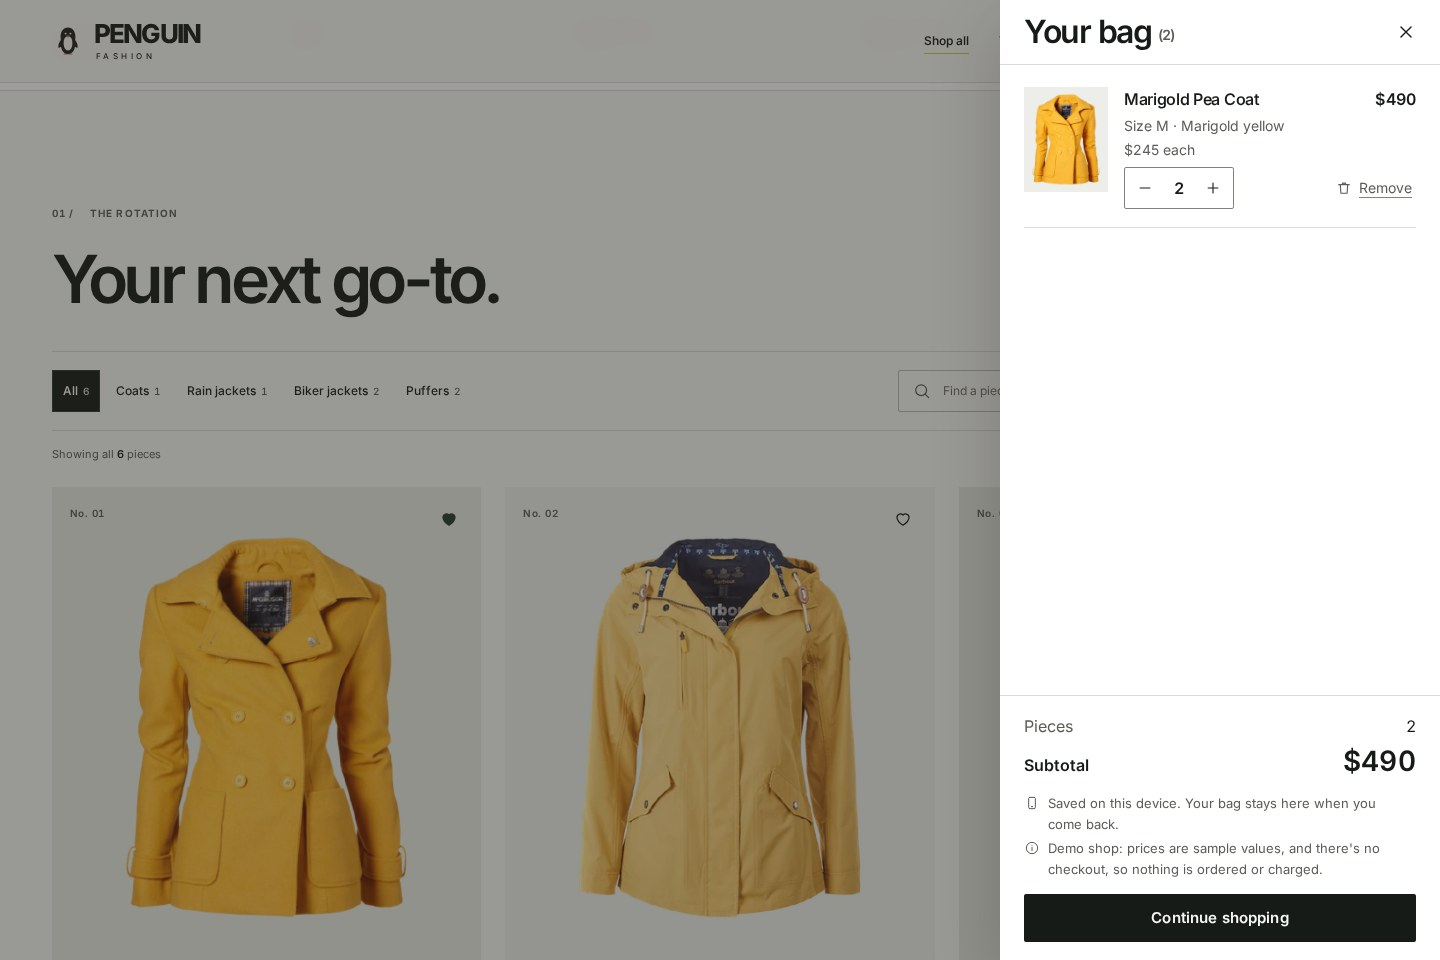
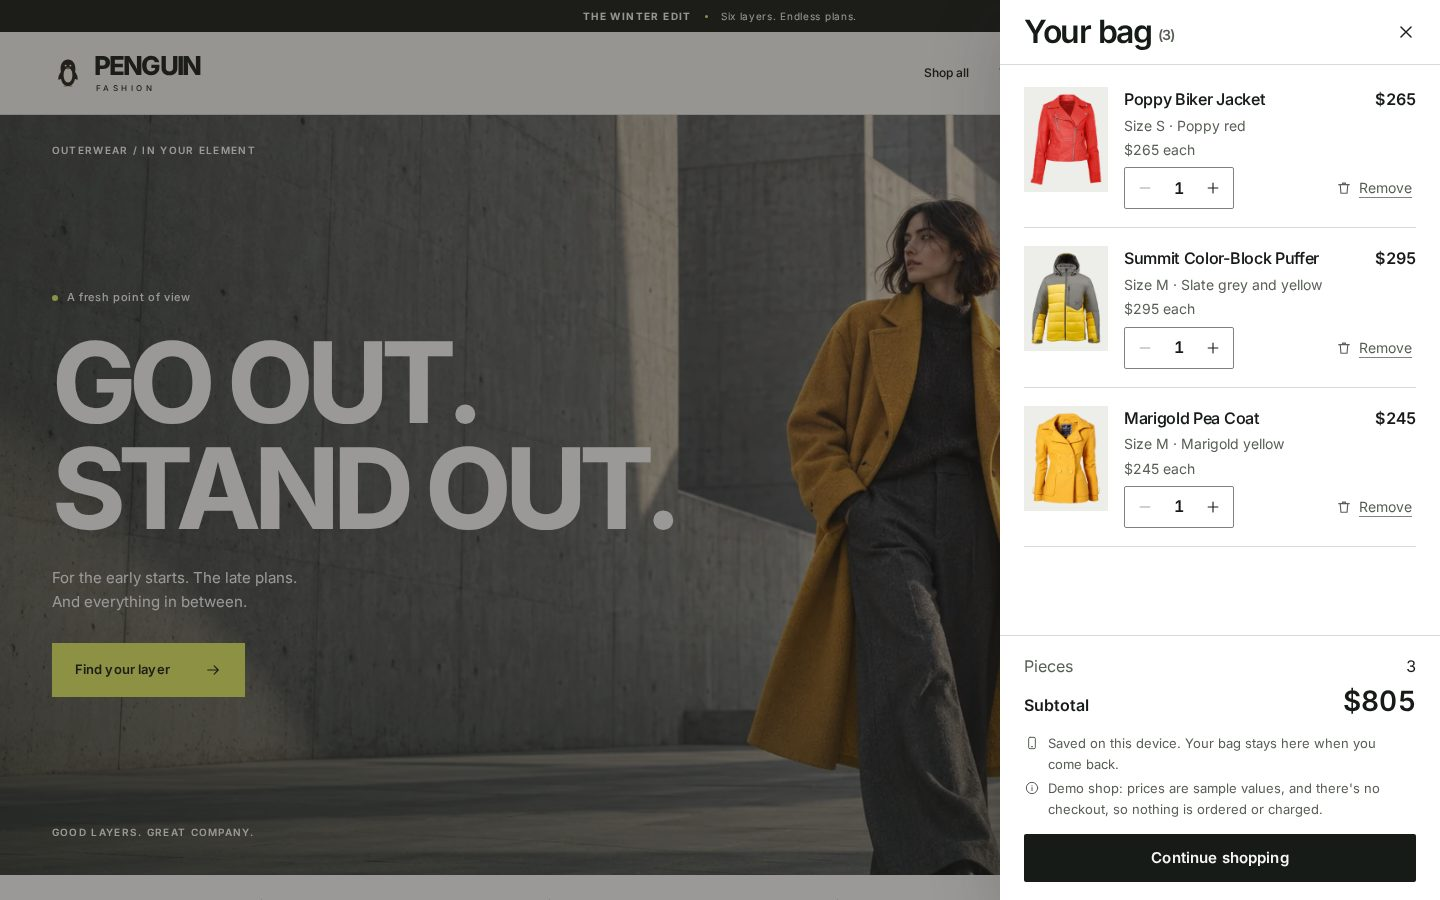
Polish the README with new screenshots of the redesign

diff --git a/README.md b/README.md
@@ -1,26 +1,136 @@
-# Penguin Fashion
+<p align="center">
+  <a href="https://shayan-abrar.github.io/Penguin-Fashion-Shop/">
+    <img src="screenshots/home.jpg" width="100%" alt="Penguin Fashion in a desktop window and on a phone: the headline GO OUT. STAND OUT. and a chartreuse Find your layer button over a city campaign image of two models in a saffron coat and a navy puffer">
+  </a>
+</p>
 
-A winterwear concept store with a bold editorial identity: oversized typography, cool neutrals, a chartreuse accent, and three original AI-generated fashion campaign images. It has six coats and jackets, search and filters, a product view with zoom and a size guide, a shoppable "Winter Edit", and a bag and wishlist that are saved in your browser. It's a demo: the products, sizes and prices are sample data, and there's no checkout.
-
-**Live site:** <https://shayan-abrar.github.io/Penguin-Fashion-Shop/>
+<h1 align="center">Penguin Fashion</h1>
 
 <p align="center">
-  <img src="screenshots/home.jpg" width="800" alt="Home page: GO OUT. STAND OUT. over an original city fashion campaign, with shop-by-style shortcuts underneath">
+  <b>Go out. Stand out.</b> A winter outerwear storefront with a bold editorial look:<br>
+  six coats and jackets, a shoppable lookbook, and a bag that's saved on your device.
 </p>
+
+<p align="center">
+  <a href="https://shayan-abrar.github.io/Penguin-Fashion-Shop/"><b>View the live site</b></a>
+  &nbsp;·&nbsp; <a href="#screenshots">Screenshots</a>
+  &nbsp;·&nbsp; <a href="#features">Features</a>
+  &nbsp;·&nbsp; <a href="#design">Design</a>
+  &nbsp;·&nbsp; <a href="#run-it-locally">Run it locally</a>
+</p>
+
+<p align="center">
+  <img alt="Hosted on GitHub Pages" src="https://img.shields.io/badge/hosted_on-GitHub_Pages-171B17?style=flat-square&logo=github&logoColor=white">
+  <img alt="HTML, CSS and JavaScript modules" src="https://img.shields.io/badge/stack-HTML_%C2%B7_CSS_%C2%B7_JS_modules-425537?style=flat-square">
+  <img alt="No build step" src="https://img.shields.io/badge/build_step-none-E5F164?style=flat-square&labelColor=171B17">
+  <img alt="No dependencies" src="https://img.shields.io/badge/dependencies-0-E5F164?style=flat-square&labelColor=171B17">
+</p>
+
+---
+
+Penguin Fashion is a demo storefront dressed as an outerwear campaign. It opens with a full-bleed city hero, then a clean shopping grid, a dark shoppable lookbook, a coastal brand story and an oversized footer wordmark. Behind the campaign styling is a complete browsing experience: search and filters, a product view with zoom and a size guide, and a bag and saved list that stay in your browser.
+
+It's plain HTML, CSS and JavaScript modules, with no framework, nothing to install and no build step.
+
+> [!NOTE]
+> This is a demo, not a shop. Products, sizes and prices are sample data, there's no checkout, and nothing is ever ordered or charged.
+
+## Screenshots
 
 <table>
   <tr>
-    <td align="center" width="20%"><a href="screenshots/collection.jpg"><img src="screenshots/collection.jpg" width="150" alt="The collection with a search box, style, fit and hooded filters, a sort menu and a grid of jackets"></a><br><sub><b>Collection</b></sub></td>
-    <td align="center" width="20%"><a href="screenshots/product.jpg"><img src="screenshots/product.jpg" width="150" alt="Product view of the Marigold Pea Coat with a large photo, size buttons, a size guide link and Add to bag"></a><br><sub><b>Product view</b></sub></td>
-    <td align="center" width="20%"><a href="screenshots/winter-edit.jpg"><img src="screenshots/winter-edit.jpg" width="150" alt="The Bold Color Edit: an original campaign photograph, a styling idea and links to three matching catalog pieces"></a><br><sub><b>The Winter Edit</b></sub></td>
-    <td align="center" width="20%"><a href="screenshots/bag.jpg"><img src="screenshots/bag.jpg" width="150" alt="The bag drawer with quantity controls, a subtotal and a note that it's saved on this device"></a><br><sub><b>Bag</b></sub></td>
-    <td align="center" width="20%"><a href="screenshots/mobile.jpg"><img src="screenshots/mobile.jpg" width="150" alt="The redesigned home page on a phone"></a><br><sub><b>Phone</b></sub></td>
+    <td width="50%" valign="top">
+      <a href="screenshots/collection.jpg"><img src="screenshots/collection.jpg" alt="The collection: the heading Your next go-to., style chips, a search box, a sort menu, a Filters button and product cards on stone panels"></a>
+      <br><sub><b>The collection</b> · style chips, search, filters and price sorting</sub>
+    </td>
+    <td width="50%" valign="top">
+      <a href="screenshots/product.jpg"><img src="screenshots/product.jpg" alt="Product view of the Poppy Biker Jacket with a large photo, size S selected, a size guide link and Add to bag"></a>
+      <br><sub><b>Product view</b> · zoom, sizes and the size guide</sub>
+    </td>
+  </tr>
+  <tr>
+    <td colspan="2" valign="top">
+      <a href="screenshots/winter-edit.jpg"><img src="screenshots/winter-edit.jpg" alt="The Winter Edit on a dark section: the heading A mood for every forecast., tabs for three looks, and The Bold Color Edit with a campaign image of a model in a red jacket beside links to three matching pieces"></a>
+      <br><sub><b>The Winter Edit</b> · three shoppable looks in a carousel you control</sub>
+    </td>
+  </tr>
+  <tr>
+    <td width="50%" valign="top">
+      <a href="screenshots/bag.jpg"><img src="screenshots/bag.jpg" alt="The bag drawer with three jackets, quantity controls, a subtotal of $805 and a note that the bag is saved on this device"></a>
+      <br><sub><b>Bag</b> · quantities, undo and a subtotal from the catalog</sub>
+    </td>
+    <td width="50%" valign="top">
+      <a href="screenshots/story.jpg"><img src="screenshots/story.jpg" alt="The brand story: Good company for cold days. beside a coastal campaign image of a model in a grey and yellow puffer"></a>
+      <br><sub><b>Our story</b> · a coastal editorial with three principles</sub>
+    </td>
   </tr>
 </table>
 
+<p align="center">
+  <a href="screenshots/mobile.jpg"><img src="screenshots/mobile.jpg" width="100%" alt="Four phone screens: the campaign hero, the collection with a scrolling row of style chips, the Poppy Biker Jacket with size S selected, and the bag as a sheet from the bottom of the screen"></a>
+  <br><sub>On phones, the menu, filters and bag open as sheets from the bottom of the screen, and <b>Add to bag</b> stays within reach.</sub>
+</p>
+
+## Features
+
+### Shop the collection
+
+- **Find your kind of layer:** shortcuts for coats, rain jackets, biker jackets and puffers, each with a live count.
+- **Search** by name, color or style, from the collection or from the header, where matches appear as you type.
+- **Filter** with style chips, and by fit (women's or men's) and hooded pieces in the Filters panel. **Sort** by lowest or highest price.
+- Active filters show as tags you can remove, with a result count, **Clear all** and a friendly no-results state.
+- The search, filters and sort are kept in the address, so a refresh keeps them and you can share a filtered view as a link.
+
+### Product view
+
+- Opens over the collection with a large photo you can zoom: click or tap it and move across it, or use the arrow keys.
+- Shows the price, color, a description and what's visible in the photo.
+- A size is required before **Add to bag**, with an inline message if it's missing. The size guide explains how to measure and lists sample measurements in centimeters or inches.
+- Related pieces open in the same view. The back button closes it with your filters and scroll position intact, and `?product=<id>` links open a piece directly.
+
+### The Winter Edit
+
+- A shoppable lookbook with three looks, **Everyday**, **Bold color** and **Weekend**, each pairing a campaign image with a styling idea and links to the pieces.
+- **Shop this edit** shows just those pieces in the collection.
+- The carousel only moves when you ask it to, with its buttons, tabs, arrow keys or a swipe.
+
+### Bag and saved pieces
+
+- Both are saved in your browser's `localStorage`, under `penguin-fashion:cart:v1` and `penguin-fashion:wishlist:v1`. Nothing is sent anywhere.
+- Adding the same piece in the same size combines into one line, and a different size gets its own line. Quantities go from 1 to 10, and removing something offers **Undo**.
+- Prices always come from the catalog, so totals stay correct.
+- Both survive a refresh or closing the browser, and other open tabs update to match.
+- Saved data is checked whenever it's read. Damaged or outdated entries are repaired, and the bag explains what changed. If the browser can't save at all, the bag still works for the visit and says it won't be kept.
+
+### Accessibility
+
+- A "Skip to content" link, clear headings and a visible focus ring.
+- The product view, size guide, bag, saved pieces, menu and filters are native dialogs. Focus moves into them and stays there, Escape closes them, the page behind doesn't scroll, and focus returns to what opened them.
+- Missing sizes, bag changes, filter results and carousel moves are announced to screen readers.
+- The lookbook never moves on its own, and slides that aren't showing can't be reached by keyboard or screen readers.
+- Animations switch off when your system asks for reduced motion.
+- Images have descriptive alt text and fixed dimensions, and images further down the page load lazily.
+
+## Design
+
+The art direction is a contemporary outerwear campaign: big, tight Inter headlines, cool off-white and stone surfaces, deep forest-charcoal sections and a single chartreuse accent for the moments that matter.
+
+<p align="center">
+  <img src="screenshots/design.png" width="100%" alt="Design tokens: the Inter typeface with the sample GO OUT. STAND OUT., and six colors: chartreuse E5F164, forest charcoal 171B17, off-white F7F8F4, stone EDEEEA, olive 425537 and graphite 575E55">
+</p>
+
+- **Typeface:** Inter, self-hosted as one variable font, for both the campaign headlines and the small interface text.
+- **Color:** the palette, type scale and spacing are tokens in `assets/css/tokens.css`.
+- **Photography:** product photos are always shown whole, at the same scale, on matching stone panels, so shapes are easy to compare. The three campaign images are mood photography. They're labelled on the site as AI-generated styling inspiration, and they never stand in for the products.
+- **Motion:** small hover details and a short entrance animation, all switched off for reduced motion.
+
+<p align="center">
+  <img src="screenshots/footer.jpg" width="100%" alt="The footer: an oversized chartreuse PENGUIN wordmark on forest charcoal, with Shop, Help and Project links and the demo notice">
+</p>
+
 ## Run it locally
 
-There's no build step and nothing to install. The scripts are ES modules, so the site needs a local web server; opening `index.html` straight from the file system won't run them.
+There's nothing to install. The scripts are JavaScript modules, so the site needs a local web server; opening `index.html` straight from the file system won't run them.
 
 ```bash
 git clone https://github.com/SHAYAN-ABRAR/Penguin-Fashion-Shop.git
@@ -30,69 +140,43 @@ python3 -m http.server 8000
 
 Open <http://localhost:8000>. On Windows, use `python` instead of `python3`.
 
-To preview it under the same `/Penguin-Fashion-Shop/` path that GitHub Pages uses, run the server from the folder that contains the project:
+To preview it under the same `/Penguin-Fashion-Shop/` path that GitHub Pages uses, run the server from the folder that contains the project instead, and open <http://localhost:8000/Penguin-Fashion-Shop/>:
 
 ```bash
 cd ..
 python3 -m http.server 8000
 ```
 
-Then open <http://localhost:8000/Penguin-Fashion-Shop/>. Python shows its own error page for missing paths; the custom `404.html` only appears on GitHub Pages.
-
-## What's on the site
-
-- **Header:** the Penguin Fashion mark, links to each section, search, saved pieces and the bag, with live counts. On phones the links move into a menu that opens from the bottom of the screen.
-- **Hero:** "GO OUT. STAND OUT." over an original city campaign image, with **Find your layer** and a link to the Winter Edit. Shop-by-style shortcuts sit just below it.
-- **Collection:** search by name, color or style; filter by style (coats, rain jackets, biker jackets, puffers), fit (women's or men's) and hooded; sort by price. Active filters show as tags you can remove, with a result count, **Clear all** and a designed no-results state. The current search, filters and sort are kept in the address, so they survive a refresh and the back button.
-- **Product view:** opens over the collection as a dialog, with a large photo you can zoom (select it, then move across it; arrow keys work too), the price, color, description and what's visible in the photo. A size is required before **Add to bag**, with an inline message if it's missing. The size guide has how-to-measure steps and sample measurements in centimeters or inches. Related pieces open in the same view. The back button closes it, leaving your filters and scroll position as they were, and `?product=<id>` links open a piece directly.
-- **The Winter Edit:** three looks built from the collection (Everyday, Bold color and Weekend), each with an original campaign photograph, a styling idea, links to its pieces and **Shop this edit**, which shows just those pieces in the collection. The carousel moves only when you use its buttons, tabs, arrow keys or a swipe.
-- **About, FAQ and footer:** a coastal editorial and brand story, answers about sizing, saving and ordering, and a large Penguin wordmark with project links and the demo notice.
-
-## The bag and saved pieces
-
-- The bag is saved in the browser's `localStorage` under `penguin-fashion:cart:v1` as `{"v":1,"items":[{"id":"…","size":"M","qty":1}],"savedAt":"…"}`. Saved pieces use `penguin-fashion:wishlist:v1` as `{"v":1,"ids":["…"],"savedAt":"…"}`. Nothing else is stored, and nothing is sent anywhere.
-- Adding the same piece in the same size again combines into one line; a different size gets its own line. Quantities go from 1 to 10. Removing a line or a saved piece offers **Undo**.
-- Prices aren't stored. They always come from the catalog, so line totals and the subtotal stay correct.
-- Both are still there after a refresh or after closing and reopening the browser, on the same browser and device, and other open tabs update to match.
-- Saved data is checked whenever it's read. Data that can't be read or comes from an older format is reset. Pieces that are no longer in the catalog, unavailable sizes and invalid quantities are removed, quantities over 10 are lowered, and repeated lines are merged. The bag explains what changed, once.
-- If the browser won't save anything (some private modes, blocked site data, or full storage), the bag and saved pieces still work while the page is open, and the site says they won't be kept.
-- There's no checkout. Adding a piece doesn't order or reserve it.
-
-## What's sample content
-
-- **Names and descriptions** describe what each photo shows. The names are descriptive labels, not the makers' model names.
-- **Prices** are sample values in US dollars, and the footer and bag say so.
-- **Sizes and the size guide's measurements** are samples: typical body measurements, not measurements taken from these garments. The size guide labels them that way.
-- There are no discounts, stock levels, delivery promises, reviews or material certifications anywhere on the site.
-- **Photos:** the six product photos came with the original version of this project, and their sources aren't recorded. Several show other brands' labels or logos, and one has a faint text mark on the chest. Check where they came from before using the site beyond a demo.
+Python shows its own page for missing paths; the custom `404.html` only appears on GitHub Pages.
 
 ## Project structure
 
 ```text
-index.html                    The storefront (one page, with dialogs for the product view, bag and more)
-404.html                      Not-found page for GitHub Pages (uses /Penguin-Fashion-Shop/ paths)
-assets/css/tokens.css         Typefaces, colors, type scale, spacing, shape and motion
-assets/css/base.css           Reset, typography, buttons, chips, form controls, focus and utilities
-assets/css/sections.css       Header, hero, collection, Winter Edit, about, FAQ and footer
-assets/css/overlays.css       Product view, size guide, bag and saved drawers, sheets and toasts
-assets/js/catalog.js          The catalog: products, styles, fits, sizes, the size chart and the edits
-assets/js/store.js            The bag and saved pieces: reading, checking and saving localStorage
-assets/js/collection.js       Search, filters, sorting, the product grid and the address
-assets/js/product-view.js     The product view, zoom, size selection and related pieces
-assets/js/size-guide.js       The size guide
-assets/js/lookbook.js         The Winter Edit carousel
-assets/js/bag-drawer.js       The bag
-assets/js/saved-drawer.js     Saved pieces
-assets/js/header.js           Counts, the section you're in, the mobile menu and search
-assets/js/hero.js             Style shortcuts with live catalog counts
-assets/js/ui.js               Shared helpers: prices, icons, dialogs, announcements and toasts
-assets/js/actions.js          A small registry the modules use to call each other
-assets/js/main.js             Starts everything
-assets/img/products/          Product photos as WebP at 720, 400 and 200 pixels wide
-assets/img/editorial/         Three generated campaign images, responsive WebP files and exact prompts
-assets/fonts/                 Instrument Serif and Inter (WOFF2) with their licenses
-tools/prepare_product_image.py  Prepares a new product photo at the same scale as the others
-screenshots/                  Images used in this README
+index.html                      The storefront: one page, with dialogs for products, the bag and more
+404.html                        Not-found page for GitHub Pages (uses /Penguin-Fashion-Shop/ paths)
+DESIGN_REVIEW.md                Notes from the editorial redesign
+assets/css/tokens.css           Typeface, colors, type scale, spacing, shape and motion
+assets/css/base.css             Reset, typography, buttons, chips, form controls and focus
+assets/css/sections.css         Header, campaign hero, collection, lookbook, story, FAQ and footer
+assets/css/overlays.css         Product view, size guide, bag and saved drawers, sheets and toasts
+assets/js/catalog.js            Products, styles, fits, sizes, the size chart and the edits
+assets/js/store.js              The bag and saved pieces in localStorage, checked on every read
+assets/js/collection.js         Search, filters, sorting, the product grid and the address
+assets/js/product-view.js       The product view, zoom, size selection and related pieces
+assets/js/size-guide.js         The size guide
+assets/js/lookbook.js           The Winter Edit carousel
+assets/js/bag-drawer.js         The bag
+assets/js/saved-drawer.js       Saved pieces
+assets/js/header.js             Counts, the section you're in, the mobile menu and search
+assets/js/hero.js               Style shortcuts with live catalog counts
+assets/js/ui.js                 Shared helpers: prices, icons, dialogs and announcements
+assets/js/actions.js            A small registry the modules use to call each other
+assets/js/main.js               Starts everything
+assets/img/products/            Product photos as WebP at 720, 400 and 200 pixels wide
+assets/img/editorial/           The three campaign images (responsive WebP), with prompts
+assets/fonts/                   Inter, Instrument Serif (from the previous design) and their licenses
+tools/prepare_product_image.py  Prepares a new product photo at the same scale as the rest
+screenshots/                    Images used in this README
 ```
 
 ### Adding a product
@@ -103,28 +187,20 @@ screenshots/                  Images used in this README
 
 Cards, the product view, search, filters, the edits, the bag and saved pieces all read from the catalog, so there's nothing else to update. A piece that's removed from the catalog is dropped from saved bags, with a notice.
 
-## Accessibility
+## What's sample content
 
-- Semantic landmarks and headings, a "Skip to content" link, and a visible focus ring on every control.
-- The product view, size guide, bag, saved pieces, menu and filters are native modal dialogs: focus moves into them and stays there, Escape closes them, the page behind doesn't scroll, and focus returns to what opened them.
-- Required size selection is announced, with the message linked to the size options. Bag changes, filter results and carousel moves are announced to screen readers.
-- The carousel never moves on its own, and slides that aren't showing are hidden from keyboard and screen-reader users.
-- Buttons and other controls are 40 to 48 pixels, and smaller text links still meet WCAG's 24-pixel minimum. Text meets WCAG AA contrast, and animations switch off when the system asks for reduced motion.
-- Images have descriptive alt text and fixed dimensions, and images below the fold load lazily.
-
-## Design
-
-- **Art direction:** a contemporary outerwear campaign with a full-bleed city hero, clear shopping grid, dark lookbook spread, coastal brand story, and oversized footer wordmark.
-- **Type:** self-hosted Inter for both bold headlines and small utility text. Instrument Serif files and their license are retained from the original project.
-- **Palette:** off-white (`#F7F8F4`), cool grey-green product panels, deep forest-charcoal (`#171B17`) and chartreuse (`#E5F164`).
-- **Shopping:** original catalog photographs, stable product IDs, existing localStorage keys, product links and all shopping functions are retained.
-- **Motion:** small hover details and a restrained entrance animation that respects reduced-motion preferences. The lookbook remains user-controlled.
-- **Campaign images:** original AI-generated styling inspiration, distinct from catalog product photographs. The exact prompts and responsive file names are documented in [assets/img/editorial/README.md](assets/img/editorial/README.md).
+- **Names and descriptions** describe what each photo shows. The names are descriptive labels, not the makers' model names.
+- **Prices** are sample values in US dollars, and the footer and bag say so.
+- **Sizes and the size guide's measurements** are samples: typical body measurements, not measurements taken from these garments. The size guide labels them that way.
+- There are no discounts, stock levels, delivery promises, reviews or material certifications anywhere on the site.
+- **Product photos:** the six product photos came with the original version of this project, and their sources aren't recorded. Several show other brands' labels or logos, and one has a faint text mark on the chest. Check where they came from before using the site beyond a demo.
+- **Campaign images:** the city, color and coast images are AI-generated styling inspiration made for the redesign. They aren't photographs of the catalog pieces or of real customers. Their prompts are in [assets/img/editorial/README.md](assets/img/editorial/README.md).
 
 ## Tech stack
 
 - HTML, CSS and JavaScript modules, with no framework, dependencies or build step
-- Instrument Serif and Inter typefaces, self-hosted
+- Inter, self-hosted as a variable WOFF2 font
+- Responsive WebP images
 - Hosted on GitHub Pages
 
 ## Credits
